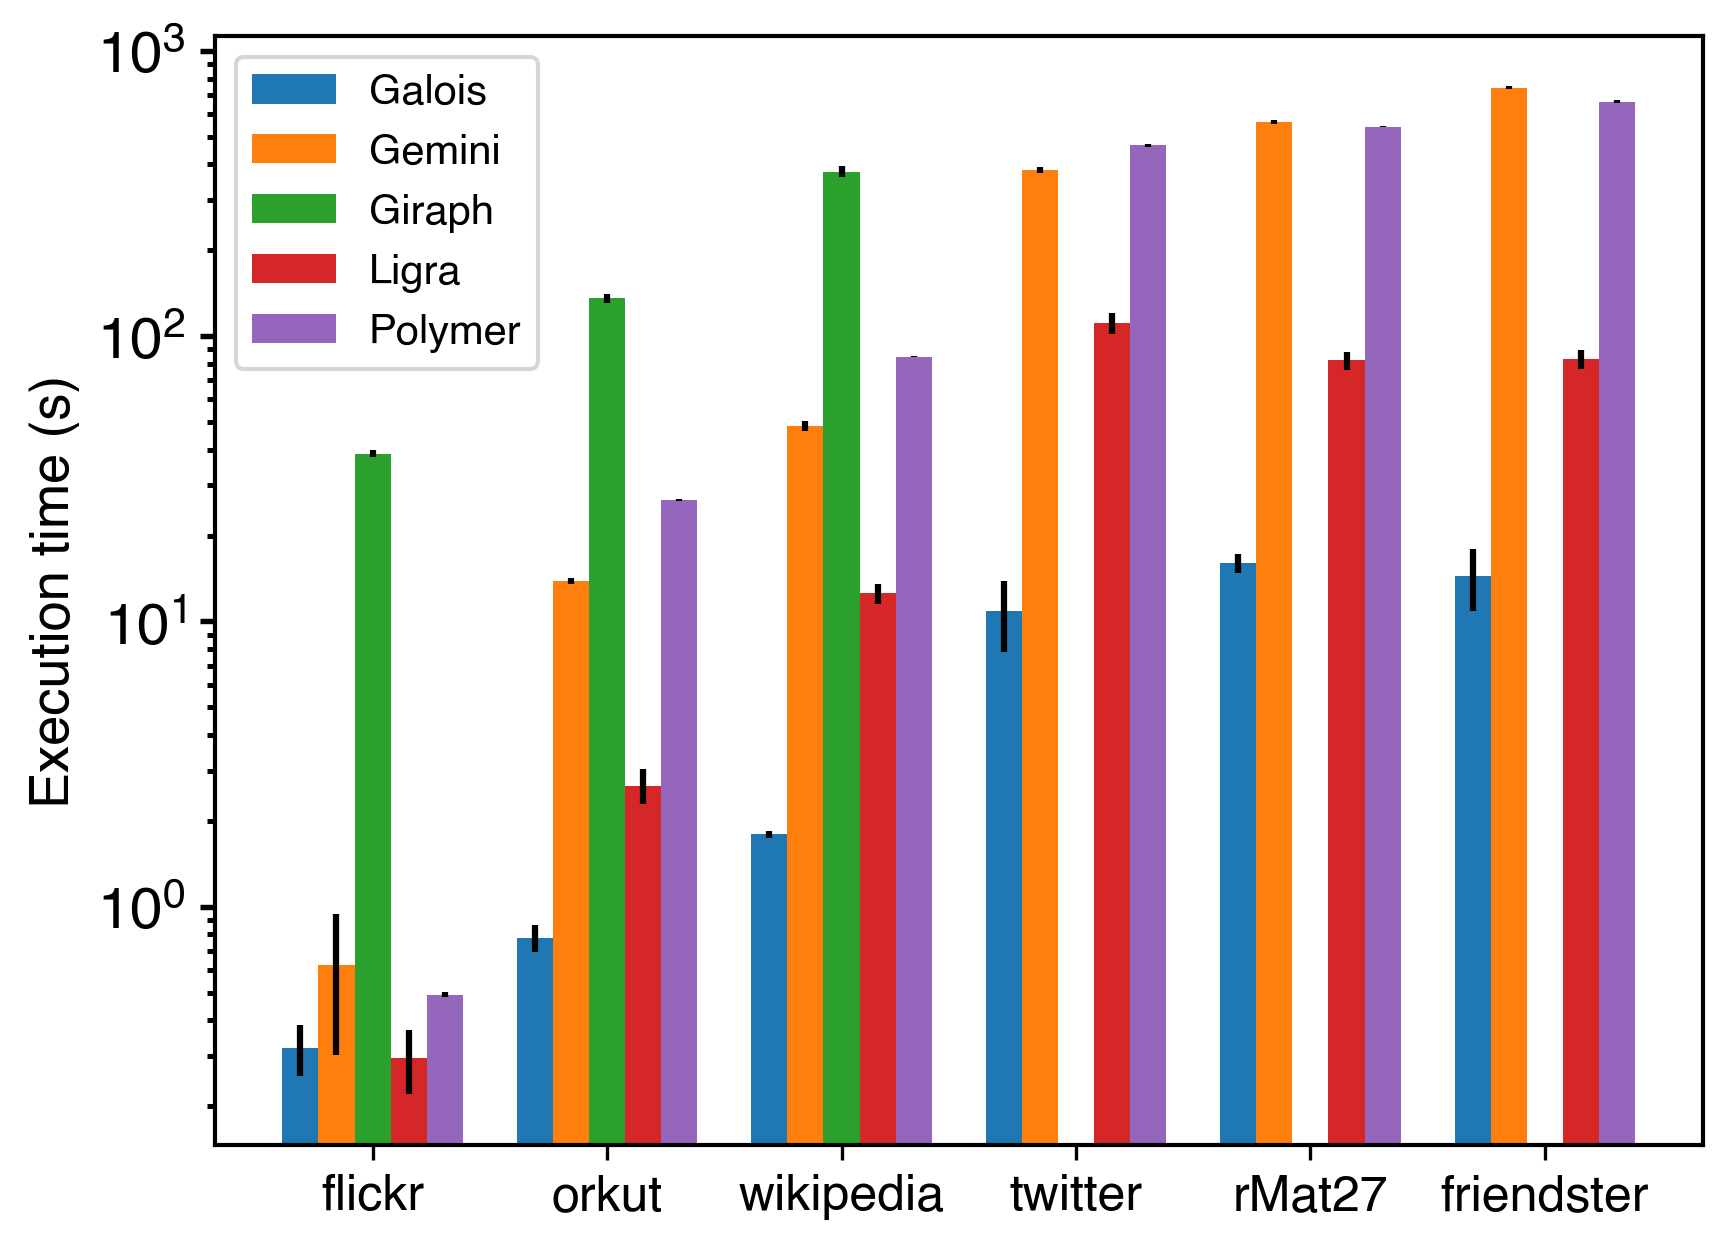
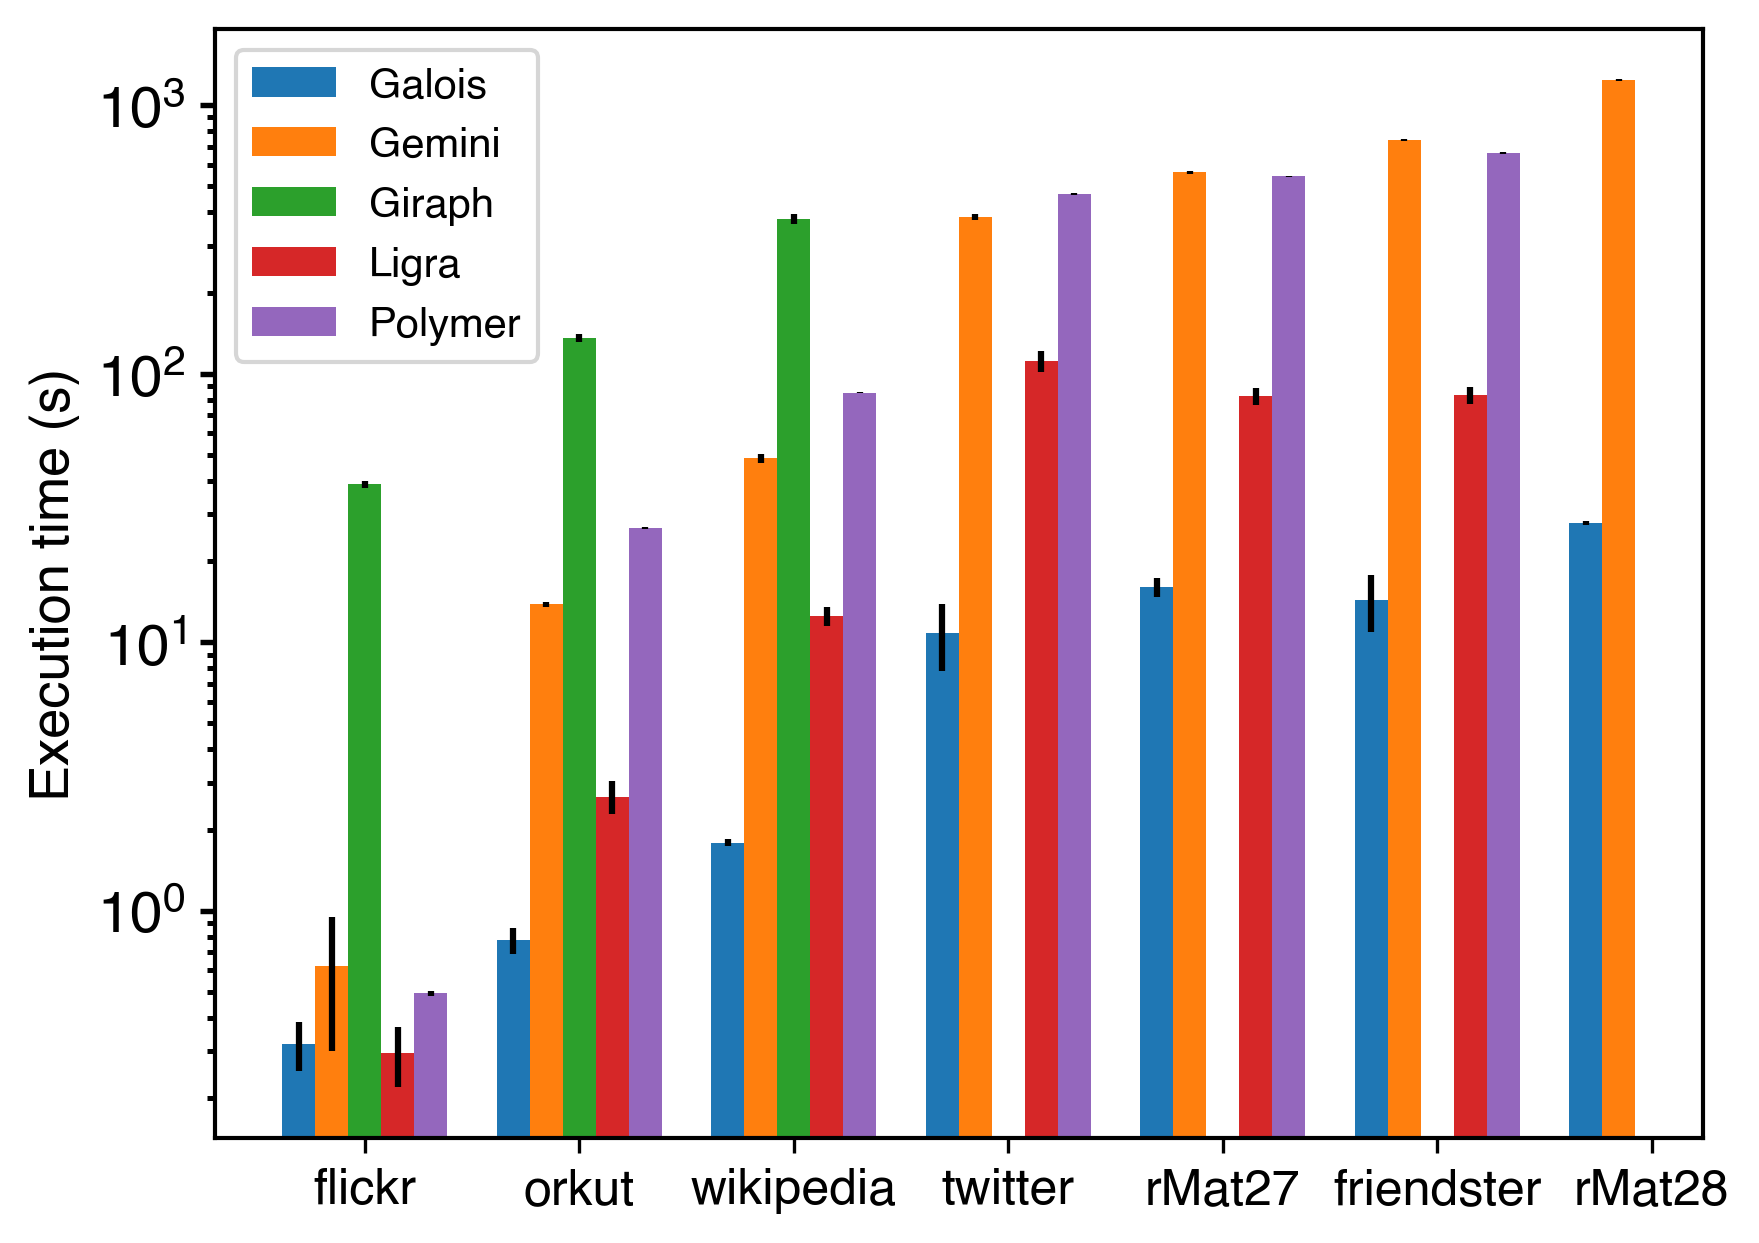
kleine änderungen von Rückmeldung 3 in den sssp results, todo sind noch die result-Überschriften

diff --git a/documentation/paper/sections/results/sssp.tex b/documentation/paper/sections/results/sssp.tex
@@ -1,9 +1,8 @@
 %!TEX root=../../main.tex
 
 
-\subsection{Single-source Shortest-paths}
-For the results of our SSSP runs, we first analyze the single-node and distributed performances separately before comparing the two.
-
+\subsection{Single-Source Shortest-Paths}
+In this section, we compare the different frameworks in their performance on the SSSP algorithm. We first analyze the frameworks on a single computation node and compare to the distributed setup after that.
 \subsubsection{Single-node}
 \begin{figure*}
 	\begin{subfigure}{0.32\textwidth}
@@ -28,11 +27,11 @@ For the results of our SSSP runs, we first analyze the single-node and distribut
 \end{figure*}
 Beginning with the single-node performance, \autoref{fig:singleNodeSSSP} shows the average calculation and execution times for SSSP on the different frameworks.
 Note, that Giraph ran out of memory ($>$250 GB) for all graphs larger than wikipedia (twitter, rMat27, friendster and rMat28). Thus, the data points on the larger graphs for Giraph are missing in the figures and our evaluation. 
-Also, both Ligra and Polymer failed on rMat28. Because of that, removed rMat28 in this section. 
+Also, both Ligra and Polymer failed on rMat28.
 
 Upon analyzing the calculation time (cf. \autoref{fig:singleNodeSSSP_calc}), most obvious is the fact that Giraph is at least one order of magnitude slower than any other framework. The only exception is Gemini, where Giraph is \emph{only} 4$\times$ slower on wikipedia. In general however, Giraph is on average 24$\times$ slower than the other frameworks on flickr, 17$\times$ on orkut and 12$\times$ on wikipedia.
 
-Comparing the other frameworks (i.e. excluding Giraph in the further comparisons), shows them to perform similar on the smaller graphs. There, the average calculation times of the four frameworks (Galois, Gemini, Ligra, Polymer) are 35ms on flickr, 77ms on orkut, 538ms on wikipedia. 
+Comparing the other frameworks (i.e. excluding Giraph in the further comparisons), shows them to perform similar on the smaller graphs. There, the average calculation times of the four frameworks (Galois, Gemini, Ligra, Polymer) are 35ms on flickr, 77ms on orkut and 538ms on wikipedia. 
 The four frameworks are close to this average for the smaller graphs. Galois and Gemini being 24ms and 12ms faster than the average. Ligra and Polymer are slower by 27ms and 9ms.
 Orkut is the graph where all the four frameworks are within 20ms of their average, Galois being the outlier at 19ms slower than average.
 For wikipedia, Galois and Ligra are close to each other, while Gemini is 560ms (104\%) slower than the average of the four frameworks.

diff --git a/plots/makeplots.py b/plots/makeplots.py
@@ -5,9 +5,9 @@ from plotFunctions import *
 
 
 distributed = False
-singleNode = False
+singleNode = True
 
-sssp = False
+sssp = True
 bfs = False
 pr = False
 
@@ -16,7 +16,7 @@ execTimes = False
 overheads = False
 
 
-galoisSpeedup = True
+galoisSpeedup = False
 
 
 colors = {"Galois":"#1f77b4",
@@ -34,7 +34,7 @@ if singleNode and ( sssp or bfs or pr or calcTimes or execTimes or overheads):
 	## CALC TIME
 	#SSSP
 	if sssp or calcTimes:
-		grouped_bar_plot(graphs[:-1], frameworks, calcTimeSSSP_singleNode, yErrs=yErrCalcSSSP_singleNode, yLabel='Calculation time (s)', saveToFile="singleNodeSSSP_calcTime.png", colors_=colors)
+		grouped_bar_plot(graphs, frameworks, calcTimeSSSP_singleNode, yErrs=yErrCalcSSSP_singleNode, yLabel='Calculation time (s)', saveToFile="singleNodeSSSP_calcTime.png", colors_=colors)
 
 	#BFS
 	if bfs or calcTimes:
@@ -50,7 +50,7 @@ if singleNode and ( sssp or bfs or pr or calcTimes or execTimes or overheads):
 	## EXEC TIME
 	#SSSP
 	if sssp or execTimes:
-		grouped_bar_plot(graphs[:-1], frameworks, execTimeSSSP_singleNode, yErrs=yErrExecSSSP_singleNode, yLabel='Execution time (s)', saveToFile="singleNodeSSSP_execTime.png", colors_=colors)
+		grouped_bar_plot(graphs, frameworks, execTimeSSSP_singleNode, yErrs=yErrExecSSSP_singleNode, yLabel='Execution time (s)', saveToFile="singleNodeSSSP_execTime.png", colors_=colors)
 
 	#BFS
 	if bfs or execTimes:
@@ -68,9 +68,9 @@ if singleNode and ( sssp or bfs or pr or calcTimes or execTimes or overheads):
 	## OVERHEAD
 	#SSSP
 	if sssp or overheads:
-		grouped_bar_plot(graphs[:-1], frameworks, overheadSSSP_singleNode, yLabel='Overhead time (s)', saveToFile="singleNodeSSSP_overheadTime.png", colors_=colors)
+		grouped_bar_plot(graphs, frameworks, overheadSSSP_singleNode, yLabel='Overhead time (s)', saveToFile="singleNodeSSSP_overheadTime.png", colors_=colors)
 
-		grouped_bar_plot(graphs[:-1], frameworks, overheadSSSPNormalized_singleNode, title='SSSP single node', yLabel='Overhead time (s) (normalized)', saveToFile="singleNodeSSSP_overheadTimeNormalized.png", yScale='linear', colors_=colors)
+		grouped_bar_plot(graphs, frameworks, overheadSSSPNormalized_singleNode, title='SSSP single node', yLabel='Overhead time (s) (normalized)', saveToFile="singleNodeSSSP_overheadTimeNormalized.png", yScale='linear', colors_=colors)
 
 	#BFS
 	if bfs or overheads:

diff --git a/plots/makedata.py b/plots/makedata.py
@@ -83,8 +83,6 @@ for f in frameworks:
         fname += "-cpu-96thread" # select Galois thread count here
     k = 0 # graph index
     for g in graphs:
-        if g == 'rMat28':
-            continue
         for i in range(len(graph)):
             if g == graph[i] and fname == algo[i]:
                 tmpCalc.append(calcTime[i])
